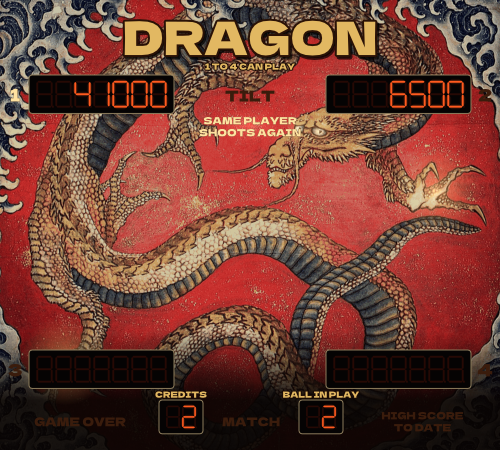
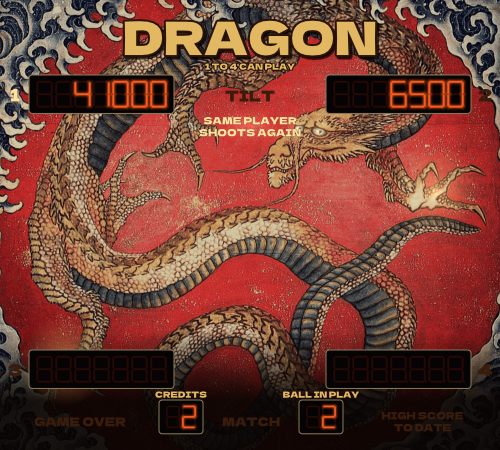
dragon, segment_style: glow at part strength
A segment's halo now starts at the segment's own colour, so at full
strength it swallows the segment's edge. The dragon's displays glow at
size 0.2 and strength 0.5; segment_style's glow rows at 0.1 / 0.7 and
0.25 / 0.5, and its all-at-once row at 0.1 / 0.7.

diff --git a/tools/dragon_show.py b/tools/dragon_show.py
@@ -124,7 +124,7 @@ def display(name, x, y, digits, variable, cell=38):
         {"name": "digits", "type": "digits", "digits": digits, "size": [cell * digits, cell * 1.55], "x": x + 12,
          "y": y + 9, "justify": "right", "text": "",
          "display": {"segments": {"style": "numeric7", "fill": "#FF5A1E", "unlit": "#260904",
-                                  "glow": {"size": 0.2, "strength": 1}}},
+                                  "glow": {"size": 0.2, "strength": 0.5}}},
          "bindings": [{"property": "text", "variable": variable}]},
     ]}
 
